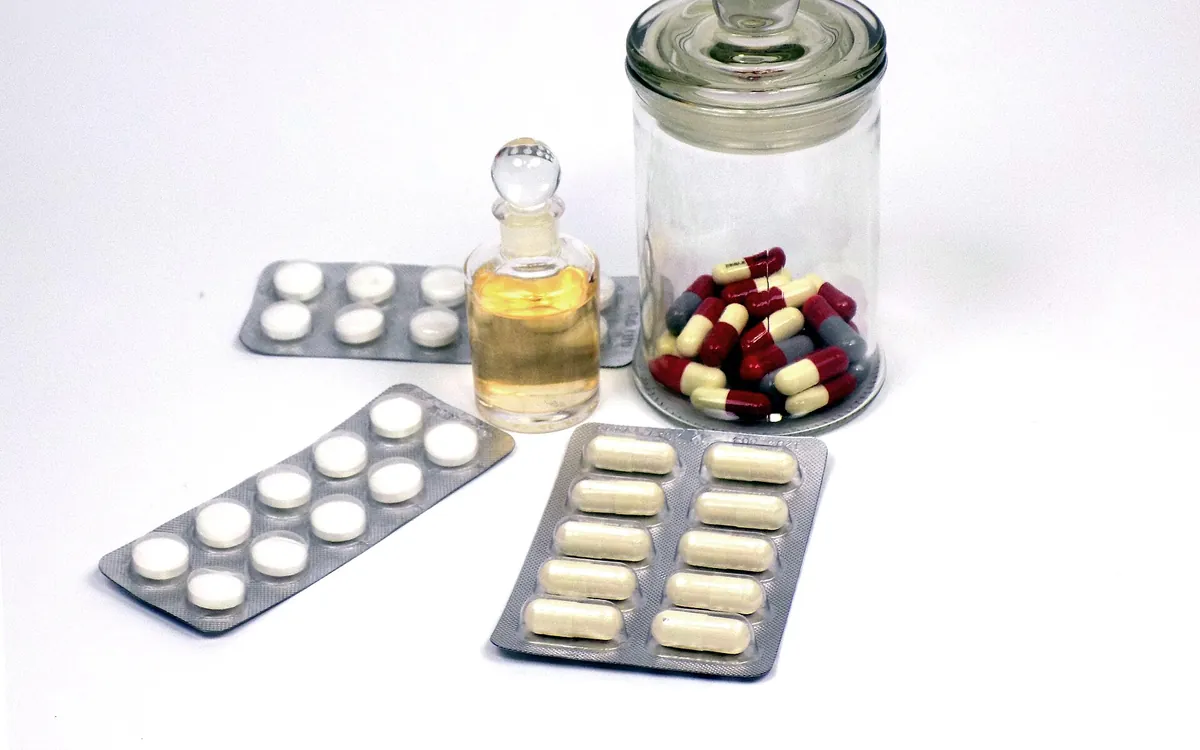
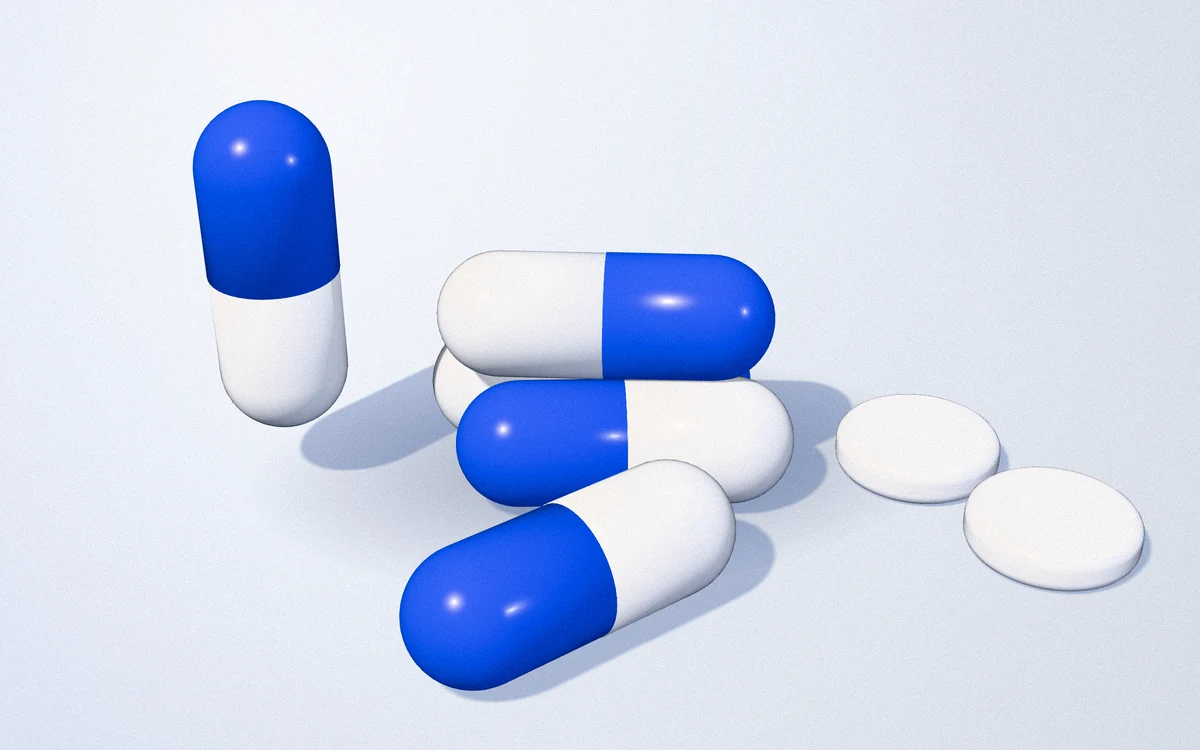
feat(infos): visuels du fil « Les objets » — objets du métier en 3D porcelaine + émail bleu, signature JARVIS + jeton 20261023b
Choix de Will (question cliquée du 23/10/2026, direction i2) : les 20 photos Commons du fil
sont remplacées par des objets du métier rendus en studio (three.js, hors de l'app, images fixes),
mêmes noms de fichiers, webp 1200×750 de 70 à 82 Ko. Les photos de presse sont remplacées par
l'objet de la rubrique (x14Image n'utilise plus it.img) pour que tout le fil porte la signature.
Crédits : « Crédits des images » → page « Crédits visuels » (three.js, MIT). Mise en page inchangée.

diff --git a/crm/v2/img/infos/credits.html b/crm/v2/img/infos/credits.html
@@ -1,30 +1,30 @@
 <!doctype html>
 <html lang="fr"><head><meta charset="utf-8"><meta name="viewport" content="width=device-width,initial-scale=1"><meta name="robots" content="noindex">
-<title>Crédits photos — Infos du jour</title>
+<title>Crédits visuels — Infos du jour</title>
 <style>body{margin:0;background:#f4f6fb;color:#16203a;font:16px/1.45 system-ui,-apple-system,sans-serif}main{max-width:760px;margin:0 auto;padding:32px 16px 48px}
 h1{font-size:24px;margin:0 0 6px}p{margin:0 0 20px;color:#3d475c}ul{list-style:none;margin:0;padding:0;display:grid;gap:10px}
 li{display:flex;gap:14px;align-items:center;background:#fff;border-radius:14px;padding:10px;box-shadow:0 1px 3px rgba(22,32,58,.08)}
 img{flex:none;width:120px;height:75px;object-fit:cover;border-radius:10px}a{color:#1d4ed8}</style></head>
-<body><main><h1>Crédits photos</h1><p>Photos d’illustration du fil « Infos du jour », quand l’article n’a pas d’image. Toutes proviennent de Wikimedia Commons ; auteur et licence ci-dessous.</p>
+<body><main><h1>Crédits visuels</h1><p>Les illustrations du fil « Infos du jour » sont des images de synthèse fabriquées pour JARVIS : objets du métier modélisés puis rendus avec three.js (licence MIT, © les auteurs de three.js, <a href="https://github.com/mrdoob/three.js/blob/dev/LICENSE">texte de la licence</a>). Aucune photographie n’est utilisée, aucune image tierce n’est reprise.</p>
 <ul>
-<li><img src="concurrence-1.webp" alt="" width="120" height="75" loading="lazy"><span><a href="https://commons.wikimedia.org/wiki/File:Picking-Station_Goods-to-Operator.jpg">Photo Wikimedia Commons</a> — TGWmechanics — <a href="https://creativecommons.org/licenses/by/3.0/deed.fr">CC BY 3.0</a></span></li>
-<li><img src="concurrence-2.webp" alt="" width="120" height="75" loading="lazy"><span><a href="https://commons.wikimedia.org/wiki/File:RECA_iSTORAGE_smartes_Bestellsystem_1.jpg">Photo Wikimedia Commons</a> — Geolina163 — <a href="https://creativecommons.org/licenses/by-sa/4.0/deed.fr">CC BY-SA 4.0</a></span></li>
-<li><img src="concurrence-3.webp" alt="" width="120" height="75" loading="lazy"><span><a href="https://commons.wikimedia.org/wiki/File:Einwurf_per_Put-to-Light_Verfahren.jpg">Photo Wikimedia Commons</a> — Retouchedd — <a href="https://creativecommons.org/licenses/by-sa/4.0/deed.fr">CC BY-SA 4.0</a></span></li>
-<li><img src="defaut-1.webp" alt="" width="120" height="75" loading="lazy"><span><a href="https://commons.wikimedia.org/wiki/File:Ancient_Apothecary_Organized_Shelves_(10157050846).jpg">Photo Wikimedia Commons</a> — Richie Diesterheft from Chicago, IL, USA — <a href="https://creativecommons.org/licenses/by-sa/2.0/deed.fr">CC BY-SA 2.0</a></span></li>
-<li><img src="defaut-2.webp" alt="" width="120" height="75" loading="lazy"><span><a href="https://commons.wikimedia.org/wiki/File:52nd_MDG_Pharmacy_(7580220).jpg">Photo Wikimedia Commons</a> — U.S. Air Force photo by Senior Airman Jessica Sanchez-Chen — Domaine public (gouvernement des États-Unis) — recadrée</span></li>
-<li><img src="generique-1.webp" alt="" width="120" height="75" loading="lazy"><span><a href="https://commons.wikimedia.org/wiki/File:Pills_and_medicines_02.jpg">Photo Wikimedia Commons</a> — BuhaM — <a href="https://creativecommons.org/licenses/by-sa/4.0/deed.fr">CC BY-SA 4.0</a></span></li>
-<li><img src="generique-2.webp" alt="" width="120" height="75" loading="lazy"><span><a href="https://commons.wikimedia.org/wiki/File:2023_Kasetka_z_lekami.jpg">Photo Wikimedia Commons</a> — Jacek Halicki — <a href="https://creativecommons.org/licenses/by-sa/4.0/deed.fr">CC BY-SA 4.0</a></span></li>
-<li><img src="marge-1.webp" alt="" width="120" height="75" loading="lazy"><span><a href="https://commons.wikimedia.org/wiki/File:Euro_coins_and_banknotes.jpg">Photo Wikimedia Commons</a> — Avij (talk · contribs) — Domaine public</span></li>
-<li><img src="marge-2.webp" alt="" width="120" height="75" loading="lazy"><span><a href="https://commons.wikimedia.org/wiki/File:Euro-Geld_auf_Scheinen_und_Banknoten_-_1_Euro_Fokus_mit_Stapel.jpg">Photo Wikimedia Commons</a> — Christoph Scholz — <a href="https://creativecommons.org/licenses/by-sa/2.0/deed.fr">CC BY-SA 2.0</a></span></li>
-<li><img src="marge-3.webp" alt="" width="120" height="75" loading="lazy"><span><a href="https://commons.wikimedia.org/wiki/File:Introduction_of_the_Euro_in_Croatia_-_2023_-_P059776-530100.jpg">Photo Wikimedia Commons</a> — European Commission — <a href="https://creativecommons.org/licenses/by/4.0/deed.fr">CC BY 4.0</a></span></li>
-<li><img src="officine-1.webp" alt="" width="120" height="75" loading="lazy"><span><a href="https://commons.wikimedia.org/wiki/File:Ringler-Apotheke_Bozen_Schubladenschrank.jpg">Photo Wikimedia Commons</a> — User:Mattes — Domaine public</span></li>
-<li><img src="officine-2.webp" alt="" width="120" height="75" loading="lazy"><span><a href="https://commons.wikimedia.org/wiki/File:Interior_of_the_Pharmacia_Homeopathica_Teixeira_Novaes,_Rio_de_Janeiro.jpg">Photo Wikimedia Commons</a> — Wilfredor — <a href="https://creativecommons.org/publicdomain/zero/1.0/deed.fr">CC0</a></span></li>
-<li><img src="officine-3.webp" alt="" width="120" height="75" loading="lazy"><span><a href="https://commons.wikimedia.org/wiki/File:Offizin.jpg">Photo Wikimedia Commons</a> — Trillerich — <a href="https://creativecommons.org/licenses/by-sa/3.0/deed.fr">CC BY-SA 3.0</a></span></li>
-<li><img src="rappel-1.webp" alt="" width="120" height="75" loading="lazy"><span><a href="https://commons.wikimedia.org/wiki/File:86_MDSS_pharmacy_support_during_OAR_(6828128).jpg">Photo Wikimedia Commons</a> — U.S. Air Force photo by Airman 1st Class Alexcia Givens — Domaine public (gouvernement des États-Unis) — recadrée</span></li>
-<li><img src="rappel-2.webp" alt="" width="120" height="75" loading="lazy"><span><a href="https://commons.wikimedia.org/wiki/File:86th_Medical_Group_to_close_KMCC_pharmacy_(8368697).jpg">Photo Wikimedia Commons</a> — U.S. Air Force photo by Senior Airman Thomas Karol — Domaine public (gouvernement des États-Unis)</span></li>
-<li><img src="remboursement-1.webp" alt="" width="120" height="75" loading="lazy"><span><a href="https://commons.wikimedia.org/wiki/File:France_machine_carte_vitale.jpg">Photo Wikimedia Commons</a> — Pinpin — <a href="https://creativecommons.org/licenses/by/2.5/deed.fr">CC BY 2.5</a> — recadrée</span></li>
-<li><img src="remboursement-2.webp" alt="" width="120" height="75" loading="lazy"><span><a href="https://commons.wikimedia.org/wiki/File:H%C3%B4tel_de_Fumel_(Palais_Consulaire_de_Toulouse)_JEP_2013_03.JPG">Photo Wikimedia Commons</a> — Don-vip — <a href="https://creativecommons.org/licenses/by-sa/3.0/deed.fr">CC BY-SA 3.0</a></span></li>
-<li><img src="rupture-1.webp" alt="" width="120" height="75" loading="lazy"><span><a href="https://commons.wikimedia.org/wiki/File:Satellite_Pharmacy_serves_the_KMC_(7976136).jpg">Photo Wikimedia Commons</a> — U.S. Air Force, Airman Trevor Calvert — Domaine public (gouvernement des États-Unis) — recadrée</span></li>
-<li><img src="rupture-2.webp" alt="" width="120" height="75" loading="lazy"><span><a href="https://commons.wikimedia.org/wiki/File:Medicine_chest,_for_cholera,_after_1849,_English._Chest_open_Wellcome_L0057224.jpg">Photo Wikimedia Commons</a> — Wellcome Collection — <a href="https://creativecommons.org/licenses/by/4.0/deed.fr">CC BY 4.0</a> — recadrée</span></li>
-<li><img src="rupture-3.webp" alt="" width="120" height="75" loading="lazy"><span><a href="https://commons.wikimedia.org/wiki/File:Etagere_vide.jpg">Photo Wikimedia Commons</a> — Jeangagnon — <a href="https://creativecommons.org/licenses/by-sa/4.0/deed.fr">CC BY-SA 4.0</a> — recadrée</span></li>
+<li><img src="concurrence-1.webp" alt="" width="120" height="75" loading="lazy"><span>Concurrence : caisses et colis de livraison — rendu three.js pour JARVIS — <a href="https://opensource.org/license/mit">MIT</a> (moteur)</span></li>
+<li><img src="concurrence-2.webp" alt="" width="120" height="75" loading="lazy"><span>Concurrence : caisses et colis de livraison — rendu three.js pour JARVIS — <a href="https://opensource.org/license/mit">MIT</a> (moteur)</span></li>
+<li><img src="concurrence-3.webp" alt="" width="120" height="75" loading="lazy"><span>Concurrence : caisses et colis de livraison — rendu three.js pour JARVIS — <a href="https://opensource.org/license/mit">MIT</a> (moteur)</span></li>
+<li><img src="defaut-1.webp" alt="" width="120" height="75" loading="lazy"><span>Pharmacie en général : mortier, flacon, boîte — rendu three.js pour JARVIS — <a href="https://opensource.org/license/mit">MIT</a> (moteur)</span></li>
+<li><img src="defaut-2.webp" alt="" width="120" height="75" loading="lazy"><span>Pharmacie en général : mortier, flacon, boîte — rendu three.js pour JARVIS — <a href="https://opensource.org/license/mit">MIT</a> (moteur)</span></li>
+<li><img src="generique-1.webp" alt="" width="120" height="75" loading="lazy"><span>Génériques : gélules et plaquette — rendu three.js pour JARVIS — <a href="https://opensource.org/license/mit">MIT</a> (moteur)</span></li>
+<li><img src="generique-2.webp" alt="" width="120" height="75" loading="lazy"><span>Génériques : gélules et plaquette — rendu three.js pour JARVIS — <a href="https://opensource.org/license/mit">MIT</a> (moteur)</span></li>
+<li><img src="marge-1.webp" alt="" width="120" height="75" loading="lazy"><span>Marge : pièces empilées, pourcentage — rendu three.js pour JARVIS — <a href="https://opensource.org/license/mit">MIT</a> (moteur)</span></li>
+<li><img src="marge-2.webp" alt="" width="120" height="75" loading="lazy"><span>Marge : pièces empilées, pourcentage — rendu three.js pour JARVIS — <a href="https://opensource.org/license/mit">MIT</a> (moteur)</span></li>
+<li><img src="marge-3.webp" alt="" width="120" height="75" loading="lazy"><span>Marge : pièces empilées, pourcentage — rendu three.js pour JARVIS — <a href="https://opensource.org/license/mit">MIT</a> (moteur)</span></li>
+<li><img src="officine-1.webp" alt="" width="120" height="75" loading="lazy"><span>Officine : croix, vitrine — rendu three.js pour JARVIS — <a href="https://opensource.org/license/mit">MIT</a> (moteur)</span></li>
+<li><img src="officine-2.webp" alt="" width="120" height="75" loading="lazy"><span>Officine : croix, vitrine — rendu three.js pour JARVIS — <a href="https://opensource.org/license/mit">MIT</a> (moteur)</span></li>
+<li><img src="officine-3.webp" alt="" width="120" height="75" loading="lazy"><span>Officine : croix, vitrine — rendu three.js pour JARVIS — <a href="https://opensource.org/license/mit">MIT</a> (moteur)</span></li>
+<li><img src="rappel-1.webp" alt="" width="120" height="75" loading="lazy"><span>Rappel de lots : flèche de retour — rendu three.js pour JARVIS — <a href="https://opensource.org/license/mit">MIT</a> (moteur)</span></li>
+<li><img src="rappel-2.webp" alt="" width="120" height="75" loading="lazy"><span>Rappel de lots : flèche de retour — rendu three.js pour JARVIS — <a href="https://opensource.org/license/mit">MIT</a> (moteur)</span></li>
+<li><img src="remboursement-1.webp" alt="" width="120" height="75" loading="lazy"><span>Remboursement : carte, pièces — rendu three.js pour JARVIS — <a href="https://opensource.org/license/mit">MIT</a> (moteur)</span></li>
+<li><img src="remboursement-2.webp" alt="" width="120" height="75" loading="lazy"><span>Remboursement : carte, pièces — rendu three.js pour JARVIS — <a href="https://opensource.org/license/mit">MIT</a> (moteur)</span></li>
+<li><img src="rupture-1.webp" alt="" width="120" height="75" loading="lazy"><span>Rupture : casier vide, caisse vide — rendu three.js pour JARVIS — <a href="https://opensource.org/license/mit">MIT</a> (moteur)</span></li>
+<li><img src="rupture-2.webp" alt="" width="120" height="75" loading="lazy"><span>Rupture : casier vide, caisse vide — rendu three.js pour JARVIS — <a href="https://opensource.org/license/mit">MIT</a> (moteur)</span></li>
+<li><img src="rupture-3.webp" alt="" width="120" height="75" loading="lazy"><span>Rupture : casier vide, caisse vide — rendu three.js pour JARVIS — <a href="https://opensource.org/license/mit">MIT</a> (moteur)</span></li>
 </ul></main></body></html>

diff --git a/crm/v2/index.html b/crm/v2/index.html
@@ -12,7 +12,7 @@
     if ('serviceWorker' in navigator) {
       window.addEventListener('load', function () {
         var hadController = !!navigator.serviceWorker.controller;
-        navigator.serviceWorker.register('sw.js?v=20261023a').then(function (reg) {
+        navigator.serviceWorker.register('sw.js?v=20261023b').then(function (reg) {
           try { reg.update(); } catch (e) {}   // vérifie tout de suite au chargement          // pendant une longue session, re-vérifier périodiquement s'il y a une nouvelle version
           setInterval(function () { try { reg.update(); } catch (e) {} }, 5 * 60 * 1000);
           // dès qu'on revient sur l'appli (onglet réactivé) : re-check -> bannière « Actualiser » si nouvelle version
@@ -189,17 +189,17 @@
     <link href="https://fonts.googleapis.com/css2?family=Geist+Mono:wght@400;500;600;700&family=Onest:wght@400;500;600;700;800&family=Martian+Mono:wght@400;500;600&display=swap" rel="stylesheet">
   </noscript>
   <link rel="dns-prefetch" href="https://images.weserv.nl">
-  <link rel="stylesheet" href="v2.css?v=20261023a" />
-  <link rel="stylesheet" href="v2-pieces.css?v=20261023a" />
-  <link rel="stylesheet" href="v2-accueil.css?v=20261023a" />
-  <link rel="stylesheet" href="v2-accueil-cinq.css?v=20261023a" />
-  <link rel="stylesheet" href="v2-accueil-widgets.css?v=20261023a" />
-  <link rel="stylesheet" href="v2-motion.css?v=20261023a" />
+  <link rel="stylesheet" href="v2.css?v=20261023b" />
+  <link rel="stylesheet" href="v2-pieces.css?v=20261023b" />
+  <link rel="stylesheet" href="v2-accueil.css?v=20261023b" />
+  <link rel="stylesheet" href="v2-accueil-cinq.css?v=20261023b" />
+  <link rel="stylesheet" href="v2-accueil-widgets.css?v=20261023b" />
+  <link rel="stylesheet" href="v2-motion.css?v=20261023b" />
   <!-- Peau « Verrière » (choix Will 12/08/2026) — chargée en dernier, purement additive -->
-  <link rel="stylesheet" href="v2-verriere.css?v=20261023a" />
+  <link rel="stylesheet" href="v2-verriere.css?v=20261023b" />
 
   <!-- PWA : installable sur l'écran d'accueil (iOS + Android) -->
-  <link rel="manifest" href="manifest.webmanifest?v=20261023a" />
+  <link rel="manifest" href="manifest.webmanifest?v=20261023b" />
   <link rel="apple-touch-icon" href="icons/apple-touch-icon.png" />  <meta name="apple-mobile-web-app-capable" content="yes" />
   <meta name="apple-mobile-web-app-status-bar-style" content="default" />
   <meta name="apple-mobile-web-app-title" content="JARVIS" />
@@ -222,7 +222,7 @@
   <!-- 11/09/2026 — perf : copie locale épinglée (même fichier que rdv.html). Servie par le
        service worker, plus de troisième domaine avant le premier rendu, et la version ne
        change plus sans nous. Même origine = traces d'erreur complètes. -->
-  <script src="vendor/supabase/supabase-2.112.2.min.js?v=20261023a"></script>
+  <script src="vendor/supabase/supabase-2.112.2.min.js?v=20261023b"></script>
   <script>
     window.V2_DATAV = '20261019b';   // version des données lazy (pharma-fr-data.js) — recherche & fiches prospect
     // La marque de l'OUTIL. Will, 19/08/2026 : « c'est JARVIS CRM ; où il y a
@@ -240,7 +240,7 @@
         window.V2_BRAND = { name: 'Escale Pharma', sub: 'Espace commercial', escale: true };
         document.title = 'Escale Pharma · Espace commercial';
         var mt = document.querySelector('meta[name="theme-color"]'); if (mt) mt.setAttribute('content', '#0B6E8F');
-        document.write('<link rel="stylesheet" href="../../escale/v2/escale-theme.css?v=20261023a">');
+        document.write('<link rel="stylesheet" href="../../escale/v2/escale-theme.css?v=20261023b">');
       }
     } catch (e) {}
     window.SUPABASE_URL = 'https://iyvavhnlhxksokkerkos.supabase.co';
@@ -256,8 +256,8 @@
     };
   </script>
   <!-- 16/10/2026 — « La garde-robe » : huit habillages de toute l'app (matière, lumière, police). Posé AVANT le premier dessin. -->
-  <link rel="stylesheet" href="v2-hab.css?v=20261023a" />
-  <script src="v2-hab.js?v=20261023a"></script>
+  <link rel="stylesheet" href="v2-hab.css?v=20261023b" />
+  <script src="v2-hab.js?v=20261023b"></script>
 </head>
 <body>
   <div class="v2-halo"></div>
@@ -265,12 +265,12 @@
 
   <!-- ═══ SOCLE (≈ 275 Ko) : le strict nécessaire à l'écran de connexion — 11/09/2026 ═══
        Avant : 80 scripts (6,05 Mo) chargés et exécutés AVANT le premier pixel. -->
-  <script src="v2-icons.js?v=20261023a"></script>
+  <script src="v2-icons.js?v=20261023b"></script>
   <!-- Table d'alias groupements (canonicalisation) : fusionne les doublons partout -->
-  <script src="groupement-alias.js?v=20261023a"></script>
-  <script src="v2-boot.js?v=20261023a"></script>
+  <script src="groupement-alias.js?v=20261023b"></script>
+  <script src="v2-boot.js?v=20261023b"></script>
   <!-- Profil commercial : lu DANS loadData (corrections manuelles de groupement) → avant les données -->
-  <script src="v2-profil.js?v=20261023a"></script>
+  <script src="v2-profil.js?v=20261023b"></script>
   <script>
     // ═══ LE RESTE (≈ 5,4 Mo) : MÊME ORDRE qu'avant, posé par V2.chargerScripts (v2-boot.js)
     // juste après le premier rendu, en scripts `async=false` (téléchargés en parallèle,
@@ -302,13 +302,13 @@
       'v2-visites.js', 'v2-campagne-cible.js', 'lgo-process-data.js', 'lgo-savoir-data.js', 'v2-lgo.js', 'v2-mallette.js', 'v2-documents.js'
     ];
   </script>
-  <link rel="stylesheet" href="vendor/leaflet/leaflet.css?v=20261023a">
-  <link rel="stylesheet" href="vendor/leaflet/MarkerCluster.css?v=20261023a">
-  <link rel="stylesheet" href="vendor/leaflet/MarkerCluster.Default.css?v=20261023a">
+  <link rel="stylesheet" href="vendor/leaflet/leaflet.css?v=20261023b">
+  <link rel="stylesheet" href="vendor/leaflet/MarkerCluster.css?v=20261023b">
+  <link rel="stylesheet" href="vendor/leaflet/MarkerCluster.Default.css?v=20261023b">
   <!-- App (boot), puis les deux couches qui enveloppent V2.render (sondage ≤ 500 ms : rester collées à v2-app) -->
-  <script src="v2-accueil-cinq.js?v=20261023a"></script>
-  <script src="v2-accueil-widgets.js?v=20261023a"></script>
-  <script src="v2-app.js?v=20261023a"></script>
-  <script src="v2-motion.js?v=20261023a"></script>
-  <script src="v2-bg.js?v=20261023a"></script>
+  <script src="v2-accueil-cinq.js?v=20261023b"></script>
+  <script src="v2-accueil-widgets.js?v=20261023b"></script>
+  <script src="v2-app.js?v=20261023b"></script>
+  <script src="v2-motion.js?v=20261023b"></script>
+  <script src="v2-bg.js?v=20261023b"></script>
 </body></html>

diff --git a/opso/v2/index.html b/opso/v2/index.html
@@ -31,11 +31,11 @@
   <link href="https://fonts.googleapis.com/css2?family=Varela+Round&family=Caveat:wght@600;700&display=swap" rel="stylesheet">
   <link rel="dns-prefetch" href="https://images.weserv.nl">
   <!-- Socle visuel V2 (partagé) + override thème vert OPSO -->
-  <link rel="stylesheet" href="../../crm/v2/v2.css?v=20261023a" />
-  <link rel="stylesheet" href="../../crm/v2/v2-pieces.css?v=20261023a" />
-  <link rel="stylesheet" href="opso-theme.css?v=20261023a" />
-  <link rel="stylesheet" href="opso-ux-accueil.css?v=20261023a" />
-  <link rel="stylesheet" href="opso-ux-listes.css?v=20261023a" />
+  <link rel="stylesheet" href="../../crm/v2/v2.css?v=20261023b" />
+  <link rel="stylesheet" href="../../crm/v2/v2-pieces.css?v=20261023b" />
+  <link rel="stylesheet" href="opso-theme.css?v=20261023b" />
+  <link rel="stylesheet" href="opso-ux-accueil.css?v=20261023b" />
+  <link rel="stylesheet" href="opso-ux-listes.css?v=20261023b" />
 
   <script src="https://cdn.jsdelivr.net/npm/@supabase/supabase-js@2"></script>
   <script>
@@ -59,7 +59,7 @@
   <div class="v2" id="v2-root"></div>
 
   <!-- Socle (modules partagés crm/v2) -->
-  <script src="../../crm/v2/v2-icons.js?v=20261023a"></script>
+  <script src="../../crm/v2/v2-icons.js?v=20261023b"></script>
   <!-- Données officines + ventes WML (source de vérité) -->
   <!-- `wml-officines-data.js` n'est plus chargé ici. Il contient les 691
        officines clientes avec leur chiffre d'affaires et 437 848 lignes de
@@ -71,32 +71,32 @@
   <!-- Listing officiel OPSO Santé (129 adhérents) : titulaire, e-mail, téléphone. Sorti du
        dépôt public le 30/09/2026 — chargé après connexion (clé `opsolisting` de PROTEGES). -->
   <!-- Achats par officine (opso/STATISTIQUES) — alimente le suivi groupement -->
-  <script src="../../crm/v2/v2-boot.js?v=20261023a"></script>
+  <script src="../../crm/v2/v2-boot.js?v=20261023b"></script>
   <!-- Piliers -->
   <!-- 04/09/2026, décision Will : l'app OPSO est un VISU pour le groupement,
        pas un JARVIS complet. Retirés : v2-pharma (écran commercial interne),
        v2-catalogue (toutes nos conditions), v2-fiches (outil de vente).
        Restent : Suivi groupement, Fiches marketing OPSO, Offilog. -->
 
-  <script src="../../crm/v2/v2-offilog.js?v=20261023a"></script>
+  <script src="../../crm/v2/v2-offilog.js?v=20261023b"></script>
   <!-- 15/09/2026 — liste des produits froids : sans elle, la famille « Froid » du Pilotage est sous-estimée -->
-  <script src="../../crm/v2/froid-data.js?v=20261023a"></script>
-  <script src="../../crm/v2/v2-pilotage.js?v=20261023a"></script>
+  <script src="../../crm/v2/froid-data.js?v=20261023b"></script>
+  <script src="../../crm/v2/v2-pilotage.js?v=20261023b"></script>
   <!-- Fiches marketing OPSO (charte Normandie Pharma) — OPSO uniquement -->
-  <script src="../../crm/v2/v2-marketing.js?v=20261023a"></script>
+  <script src="../../crm/v2/v2-marketing.js?v=20261023b"></script>
   <!-- « Le catalogue » côté grossiste (30/09/2026) : prend la route « marketing », classé par nombre de pharmacies -->
   <!-- 22/10/2026 — choix du catalogue (retirer / ajouter / « Sous réserve de disponibilité ») : lu par le catalogue ET l'écran de l'offre -->
-  <script src="opso-catalogue-choix-data.js?v=20261023a"></script>
-  <script src="opso-catalogue.js?v=20261023a"></script>
+  <script src="opso-catalogue-choix-data.js?v=20261023b"></script>
+  <script src="opso-catalogue.js?v=20261023b"></script>
   <!-- 15/10/2026 — « Les prix OPSO Santé » : PFHT, prix habituel, prix négocié (lus dans le seau privé, jamais dans le dépôt) -->
-  <script src="opso-prix.js?v=20261023a"></script>
+  <script src="opso-prix.js?v=20261023b"></script>
   <!-- Espace groupement OPSO (maquette 5, 29/09/2026) — le cap + le mois, propre à OPSO -->
-  <script src="opso-groupement.js?v=20261023a"></script>
+  <script src="opso-groupement.js?v=20261023b"></script>
   <!-- Écrans Pharmacies + Meilleurs achats OPSO (29/09/2026), propres à OPSO -->
-  <script src="opso-pharmacies.js?v=20261023a"></script>
+  <script src="opso-pharmacies.js?v=20261023b"></script>
   <!-- Suivi de la rémunération du contrat de référencement (30/09/2026) : réglage protégé, chargé après connexion -->
-  <script src="opso-remuneration.js?v=20261023a"></script>
+  <script src="opso-remuneration.js?v=20261023b"></script>
   <!-- App (boot en dernier) -->
-  <script src="../../crm/v2/v2-app.js?v=20261023a"></script>
+  <script src="../../crm/v2/v2-app.js?v=20261023b"></script>
 </body>
 </html>

diff --git a/crm/v2/v2-infos.js b/crm/v2/v2-infos.js
@@ -1242,7 +1242,7 @@
     return X14.liste;
   }
   function x14Image(it, i, prec) {
-    if (it && it.img && urlSure(it.img) !== '#' && it.img !== prec) return it.img;
+    /* 23/10/2026 « Les objets » : l'objet de la rubrique remplace la photo de presse (it.img ignorée), tout le fil porte la signature JARVIS */
     var th = it && X14_PHOTOS[it.theme] ? it.theme : 'defaut', n = X14_PHOTOS[th], r0 = it && it.rang != null ? it.rang : (i || 0), k, u;
     for (k = 0; k < n; k++) { u = 'img/infos/' + th + '-' + ((r0 + k) % n + 1) + '.webp'; if (u !== prec) return u; }
     return u;
@@ -1499,7 +1499,7 @@
     var tete = '<header class="f3-tete"><h2 id="f3-h" tabindex="-1">Le fil du jour</h2><p>L’actualité qui compte pour vos officines, une carte à la fois</p>' +
       '<div class="f3-ong" role="group" aria-label="Affichage"><button type="button" data-f3="vue" data-f3-v="fil" aria-pressed="' + (gv ? 'false' : 'true') + '">Le fil du jour</button>' +
       '<button type="button" data-f3="vue" data-f3-v="gardees" aria-pressed="' + (gv ? 'true' : 'false') + '">Gardées · <span data-f3-n>' + G.length + '</span></button></div></header>';
-    return '<section class="f3-fil" aria-labelledby="f3-h">' + tete + corps + '<p class="f3-cred"><a href="img/infos/credits.html" target="_blank" rel="noopener">Crédits photos</a></p></section>';
+    return '<section class="f3-fil" aria-labelledby="f3-h">' + tete + corps + '<p class="f3-cred"><a href="img/infos/credits.html" target="_blank" rel="noopener">Crédits des images</a></p></section>';
   }
   function x13Ecoute(e) {
     if (e.type === 'keydown') {

diff --git a/crm/v2/v2-boot.js b/crm/v2/v2-boot.js
@@ -1320,7 +1320,7 @@
     // Bumpé 29/09/2026 : v2-offilog.js change (union catalogue OPSO, retrait
     // Pharmazon/achat côté OPSO) — sans ce bump, un appareil ayant déjà l'app
     // ouverte continuerait de servir l'ancien fichier depuis le cache.
-    var V = '?v=20261023a' + (window.V2_VER || '20260915g');
+    var V = '?v=20261023b' + (window.V2_VER || '20260915g');
     return Promise.all(urls.map(function (u) {
       return new Promise(function (resolve) {
         var s = document.createElement('script');
@@ -1879,7 +1879,7 @@
     // de le servir, et le lecteur compacté ne trouverait pas ses dictionnaires.
     // Pas besoin de le suivre à chaque déploiement en revanche : quand `VER` de
     // sw.js change, l'activation du service worker efface tous les caches.
-    var V = '?v=20261023a';
+    var V = '?v=20261023b';
     V2.versionDonnees = V;   // lu par chargerScriptProtege (fiche carte)
     var promises = keys.map(function (k) {
       var src = (window.V2_DATA_BASE || '../') + DATA_FILES[k];

diff --git a/crm/v2/sw.js b/crm/v2/sw.js
@@ -10,7 +10,7 @@
 
    ⚠ Bumper VER à chaque déploiement (aligné sur le ?v= de index.html).
    ═══════════════════════════════════════════════════════════════════ */
-var VER = '20261023a';
+var VER = '20261023b';
 var CACHE = 'jarvis-' + VER;
 
 /* 11/09/2026 (perf, phase 3) — le SOCLE est rangé dès l'installation : les
